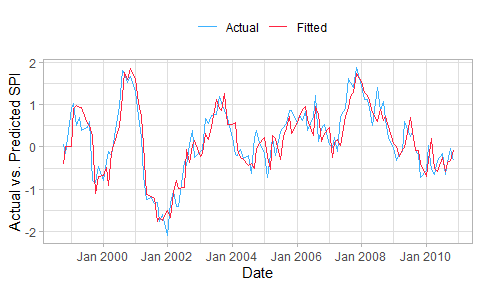
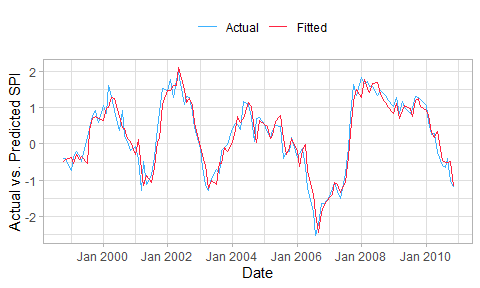
edit documentation

Changed region(s): [[0.0625, 0.1875, 1.0, 0.8438]]

diff --git a/README.md b/README.md
@@ -25,6 +25,7 @@ devtools::install_github("mammask/droughtR")
 ``` r
 # Load droughtr library
 library(droughtR)
+#> Warning: package 'droughtR' was built under R version 4.1.1
 #> Registered S3 method overwritten by 'quantmod':
 #>   method            from
 #>   as.zoo.data.frame zoo
@@ -34,9 +35,9 @@ rain = dummyrainfall(startYear = 1950, endYear = 2010)
 
 # Compute the non-stationary standardized precipitation index (NSPI) for scale 12 using GAMLSS
 drought = computenspi(monthlyRainfall = rain, stationaryspi = FALSE, spiScale = 12)
-#> GAMLSS-RS iteration 1: Global Deviance = 3412.942 
-#> GAMLSS-RS iteration 2: Global Deviance = 3412.908 
-#> GAMLSS-RS iteration 3: Global Deviance = 3412.907
+#> GAMLSS-RS iteration 1: Global Deviance = 3332.032 
+#> GAMLSS-RS iteration 2: Global Deviance = 3332.024 
+#> GAMLSS-RS iteration 3: Global Deviance = 3332.024
 
 # Plot NSPI
 plot(drought)
@@ -53,30 +54,30 @@ Split the rainfall series into training validation and test set:
 ``` r
 rain = oossplit(x = rain, trainratio = 0.6, validationratio = 0.2, testratio = 0.2)
 print(rain)
-#>          Date  Rainfall AccumPrecip Trend       mu      sigma     ecdfm
-#>   1: Jan 1950  7.947662          NA    NA       NA         NA        NA
-#>   2: Feb 1950  8.948943          NA    NA       NA         NA        NA
-#>   3: Mar 1950  7.799262          NA    NA       NA         NA        NA
-#>   4: Apr 1950  9.908702          NA    NA       NA         NA        NA
-#>   5: May 1950 11.041245          NA    NA       NA         NA        NA
+#>          Date Rainfall AccumPrecip Trend       mu      sigma      ecdfm
+#>   1: Jan 1950 7.169193          NA    NA       NA         NA         NA
+#>   2: Feb 1950 7.385852          NA    NA       NA         NA         NA
+#>   3: Mar 1950 7.267958          NA    NA       NA         NA         NA
+#>   4: Apr 1950 7.063678          NA    NA       NA         NA         NA
+#>   5: May 1950 9.926310          NA    NA       NA         NA         NA
 #>  ---                                                                   
-#> 606: Jul 2010  9.766114    103.3058   595 97.83410 0.04173167 0.9082146
-#> 607: Aug 2010  6.896707    103.7031   596 97.83883 0.04172629 0.9225675
-#> 608: Sep 2010  7.276223    105.5619   597 97.84357 0.04172091 0.9683461
-#> 609: Oct 2010  7.139230    104.2180   598 97.84831 0.04171553 0.9384279
-#> 610: Nov 2010  7.048555    101.0613   599 97.85305 0.04171016 0.7856720
-#>           NSPI Split
-#>   1:        NA  <NA>
-#>   2:        NA  <NA>
-#>   3:        NA  <NA>
-#>   4:        NA  <NA>
-#>   5:        NA  <NA>
-#>  ---                
-#> 606: 1.3298405  Test
-#> 607: 1.4225556  Test
-#> 608: 1.8570234  Test
-#> 609: 1.5417091  Test
-#> 610: 0.7914934  Test
+#> 606: Jul 2010 6.319853    94.97598   595 96.14484 0.04308050 0.39397432
+#> 607: Aug 2010 6.375332    93.32642   596 96.14188 0.04309033 0.25080640
+#> 608: Sep 2010 6.293398    92.04507   597 96.13891 0.04310017 0.16158741
+#> 609: Oct 2010 6.792034    89.09337   598 96.13595 0.04311001 0.04197682
+#> 610: Nov 2010 7.124064    89.28355   599 96.13298 0.04311985 0.04658958
+#>            NSPI Split
+#>   1:         NA  <NA>
+#>   2:         NA  <NA>
+#>   3:         NA  <NA>
+#>   4:         NA  <NA>
+#>   5:         NA  <NA>
+#>  ---                 
+#> 606: -0.2689754  Test
+#> 607: -0.6719543  Test
+#> 608: -0.9879547  Test
+#> 609: -1.7281929  Test
+#> 610: -1.6788609  Test
 ```
 
 #### Bias measurement
@@ -108,22 +109,21 @@ bias = measurebias(x = rain, trainratio = 0.6, validationratio = 0.2, testratio 
 bias
 #> $Transitions
 #>     Bias Corrected Class Bias Induced Class   N
-#>  1:          Near Normal        Near Normal 237
-#>  2:       Moderately Wet        Near Normal   9
-#>  3:       Moderately Wet     Moderately Wet  29
-#>  4:             Very Wet           Very Wet   8
-#>  5:       Moderately Dry        Near Normal   6
-#>  6:       Moderately Dry     Moderately Dry  25
-#>  7:             Very Dry     Moderately Dry   7
-#>  8:             Very Wet     Moderately Wet   5
-#>  9:        Extremely Wet           Very Wet   5
-#> 10:        Extremely Wet      Extremely Wet   5
-#> 11:             Very Dry           Very Dry   7
-#> 12:        Extremely Dry      Extremely Dry  10
-#> 13:        Extremely Dry           Very Dry   2
+#>  1:          Near Normal        Near Normal 239
+#>  2:          Near Normal     Moderately Dry  13
+#>  3:       Moderately Dry     Moderately Dry  26
+#>  4:             Very Dry           Very Dry  12
+#>  5:        Extremely Dry      Extremely Dry  10
+#>  6:       Moderately Dry           Very Dry   3
+#>  7:       Moderately Wet     Moderately Wet  13
+#>  8:        Extremely Wet      Extremely Wet  14
+#>  9:       Moderately Wet        Near Normal  14
+#> 10:             Very Wet     Moderately Wet   7
+#> 11:        Extremely Wet           Very Wet   2
+#> 12:             Very Wet           Very Wet   2
 #> 
 #> $`Impacted Records`
-#> [1] "9.58% of records changed drought class"
+#> [1] "10.99% of records changed drought class"
 #> 
 #> $Plot
 ```
@@ -148,7 +148,7 @@ model = bcautoarima(x = rain,
                     seasonal = TRUE)
 #> [1] "Calculating the drought index"
 #> [1] "Training and selecting the best model in the training set..."
-#> [1] "Initiating sequential index calculation, mmodel update and prediction"
+#> [1] "Initiating sequential index calculation, model update and prediction"
 #>   |                                                                                                            |                                                                                                    |   0%  |                                                                                                            |=                                                                                                   |   1%  |                                                                                                            |==                                                                                                  |   2%  |                                                                                                            |===                                                                                                 |   3%  |                                                                                                            |====                                                                                                |   4%  |                                                                                                            |=====                                                                                               |   5%  |                                                                                                            |======                                                                                              |   6%  |                                                                                                            |=======                                                                                             |   7%  |                                                                                                            |========                                                                                            |   8%  |                                                                                                            |=========                                                                                           |   9%  |                                                                                                            |==========                                                                                          |  10%  |                                                                                                            |===========                                                                                         |  11%  |                                                                                                            |============                                                                                        |  12%  |                                                                                                            |=============                                                                                       |  13%  |                                                                                                            |==============                                                                                      |  14%  |                                                                                                            |===============                                                                                     |  15%  |                                                                                                            |================                                                                                    |  16%  |                                                                                                            |=================                                                                                   |  17%  |                                                                                                            |==================                                                                                  |  18%  |                                                                                                            |===================                                                                                 |  19%  |                                                                                                            |====================                                                                                |  20%  |                                                                                                            |=====================                                                                               |  21%  |                                                                                                            |======================                                                                              |  22%  |                                                                                                            |=======================                                                                             |  23%  |                                                                                                            |========================                                                                            |  24%  |                                                                                                            |=========================                                                                           |  25%  |                                                                                                            |==========================                                                                          |  26%  |                                                                                                            |===========================                                                                         |  27%  |                                                                                                            |============================                                                                        |  28%  |                                                                                                            |=============================                                                                       |  29%  |                                                                                                            |==============================                                                                      |  30%  |                                                                                                            |===============================                                                                     |  31%  |                                                                                                            |================================                                                                    |  32%  |                                                                                                            |=================================                                                                   |  33%  |                                                                                                            |==================================                                                                  |  34%  |                                                                                                            |===================================                                                                 |  35%  |                                                                                                            |====================================                                                                |  36%  |                                                                                                            |=====================================                                                               |  37%  |                                                                                                            |======================================                                                              |  38%  |                                                                                                            |=======================================                                                             |  39%  |                                                                                                            |========================================                                                            |  40%  |                                                                                                            |=========================================                                                           |  41%  |                                                                                                            |==========================================                                                          |  42%  |                                                                                                            |===========================================                                                         |  43%  |                                                                                                            |============================================                                                        |  44%  |                                                                                                            |=============================================                                                       |  45%  |                                                                                                            |==============================================                                                      |  46%  |                                                                                                            |===============================================                                                     |  47%  |                                                                                                            |================================================                                                    |  48%  |                                                                                                            |=================================================                                                   |  49%  |                                                                                                            |==================================================                                                  |  50%  |                                                                                                            |===================================================                                                 |  51%  |                                                                                                            |====================================================                                                |  52%  |                                                                                                            |=====================================================                                               |  53%  |                                                                                                            |======================================================                                              |  54%  |                                                                                                            |=======================================================                                             |  55%  |                                                                                                            |========================================================                                            |  56%  |                                                                                                            |=========================================================                                           |  57%  |                                                                                                            |==========================================================                                          |  58%  |                                                                                                            |===========================================================                                         |  59%  |                                                                                                            |============================================================                                        |  60%  |                                                                                                            |=============================================================                                       |  61%  |                                                                                                            |==============================================================                                      |  62%  |                                                                                                            |===============================================================                                     |  63%  |                                                                                                            |================================================================                                    |  64%  |                                                                                                            |=================================================================                                   |  65%  |                                                                                                            |==================================================================                                  |  66%  |                                                                                                            |===================================================================                                 |  67%  |                                                                                                            |====================================================================                                |  68%  |                                                                                                            |=====================================================================                               |  69%  |                                                                                                            |======================================================================                              |  70%  |                                                                                                            |=======================================================================                             |  71%  |                                                                                                            |========================================================================                            |  72%  |                                                                                                            |=========================================================================                           |  73%  |                                                                                                            |==========================================================================                          |  74%  |                                                                                                            |===========================================================================                         |  75%  |                                                                                                            |============================================================================                        |  76%  |                                                                                                            |=============================================================================                       |  77%  |                                                                                                            |==============================================================================                      |  78%  |                                                                                                            |===============================================================================                     |  79%  |                                                                                                            |================================================================================                    |  80%  |                                                                                                            |=================================================================================                   |  81%  |                                                                                                            |==================================================================================                  |  82%  |                                                                                                            |===================================================================================                 |  83%  |                                                                                                            |====================================================================================                |  84%  |                                                                                                            |=====================================================================================               |  85%  |                                                                                                            |======================================================================================              |  86%  |                                                                                                            |=======================================================================================             |  87%  |                                                                                                            |========================================================================================            |  88%  |                                                                                                            |=========================================================================================           |  89%  |                                                                                                            |==========================================================================================          |  90%  |                                                                                                            |===========================================================================================         |  91%  |                                                                                                            |============================================================================================        |  92%  |                                                                                                            |=============================================================================================       |  93%  |                                                                                                            |==============================================================================================      |  94%  |                                                                                                            |===============================================================================================     |  95%  |                                                                                                            |================================================================================================    |  96%  |                                                                                                            |=================================================================================================   |  97%  |                                                                                                            |==================================================================================================  |  98%  |                                                                                                            |=================================================================================================== |  99%  |                                                                                                            |====================================================================================================| 100%
 #> [1] "Model evaluation in test set complete"
 ```
@@ -160,11 +160,11 @@ vs. predicted forecasts:
 ``` r
 # Return the model description
 model[['Diagnostics']][['Model Description']]
-#> [1] "ARIMA(1,0,0)(2,0,0)[12] with non-zero mean"
+#> [1] "ARIMA(1,0,1)(2,0,0)[12] with zero mean"
 
 # Return R2 score in the test set
 model[['Diagnostics']][['R2 Score Test']]
-#> [1] 0.792395
+#> [1] 0.9117009
 ```
 
 Actual vs. predicted SPI in the test set:
@@ -179,5 +179,3 @@ Additional models are developed and can be found here:
 
 -   Bias induced auto.arima
 -   Bias corrected modwt auto.arima
--   Bias corrected Support Vector Regression
--   Bias corrected modwt Support Vector Regression
